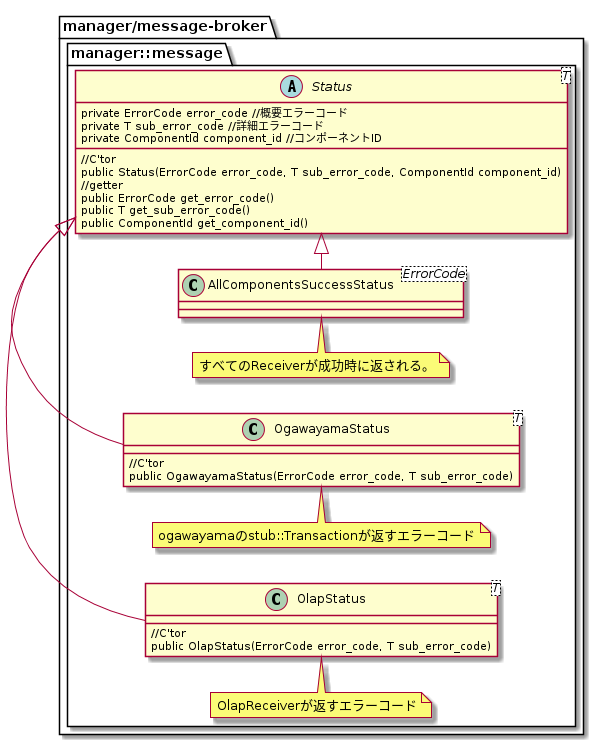
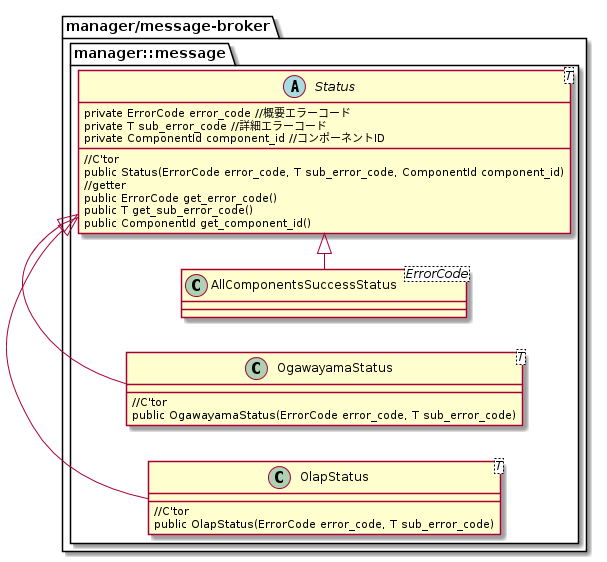
Fix about Status class

diff --git a/message-broker/docs/message-broker_API.md b/message-broker/docs/message-broker_API.md
@@ -8,14 +8,14 @@
 * メッセージを送信する。
 #### メソッド
 * Status send_message(Message* message)
-  * 処理内容：MessageクラスにセットされたすべてのReceiverに対して、メッセージを送信する。
+  * 処理内容：MessageクラスにセットされたすべてのReceiverに対して、receiver_message()メソッドでメッセージを送信する。
   * 条件
     * 事前条件：Messageクラスのすべてのフィールドがセットされている。
     * 事後条件：
       * メッセージを受信したコンポーネントが返したエラーコードが「FAILURE」である場合、概要エラーコード・詳細エラーコードを返す。
         * 概要エラーコード：メッセージに対応する処理が成功したか失敗したか
         * 詳細エラーコード：各コンポーネントで定義されているエラーコード
-      * すべてのコンポーネントが返したエラーコードが「SUCCESS」である場合、AllComponentsSuccessStatusを返す。
+      * すべてのコンポーネントがreceiver_message()メソッドで返したエラーコードが「SUCCESS」である場合、AllComponentsSuccessStatusを返す。
       * 詳細は[Statusクラス](#statusクラス)を参照。
 
 ### Message
@@ -97,10 +97,29 @@
       |OLAP|olap|
 
 #### AllComponentsSuccessStatus
-* send_message()の戻り値。すべてのコンポーネントが、受信したメッセージに対応する処理を成功した場合返される。
+* send_message()メソッドで返す戻り値。
+* すべてのコンポーネントがreceiver_message()メソッドで返したエラーコードが「SUCCESS」である場合の戻り値。
 * 各フィールドに格納される値
   |フィールド名| 値|
   |---|---|
   | error_code | SUCCESS | 
   | sub_error_code | SUCCESS |
   | component_id |  ALL_COMPONENTS |
+
+#### OgawayamaStatus
+* ogawayamaのstub::Transactionがreceiver_message()メソッドで返す戻り値
+* 各フィールドに格納される値
+  |フィールド名| 値|
+  |---|---|
+  | error_code | manager/message-brokerが管理する概要エラーコード | 
+  | sub_error_code | 各コンポーネントが管理する詳細エラーコード |
+  | component_id |  OGAWAYAMA |
+
+#### OlapStatus
+* OlapReceiverががreceiver_message()メソッドで返す戻り値
+* 各フィールドに格納される値
+  |フィールド名| 値|
+  |---|---|
+  | error_code | manager/message-brokerが管理する概要エラーコード | 
+  | sub_error_code | 各コンポーネントが管理する詳細エラーコード |
+  | component_id |  OLAP |
